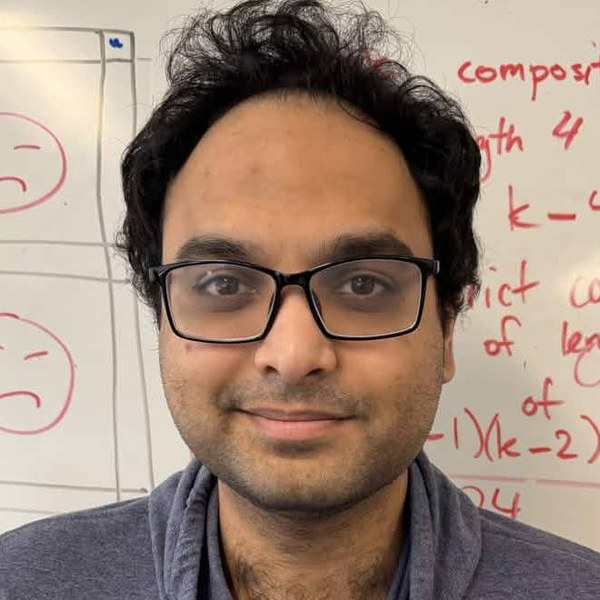
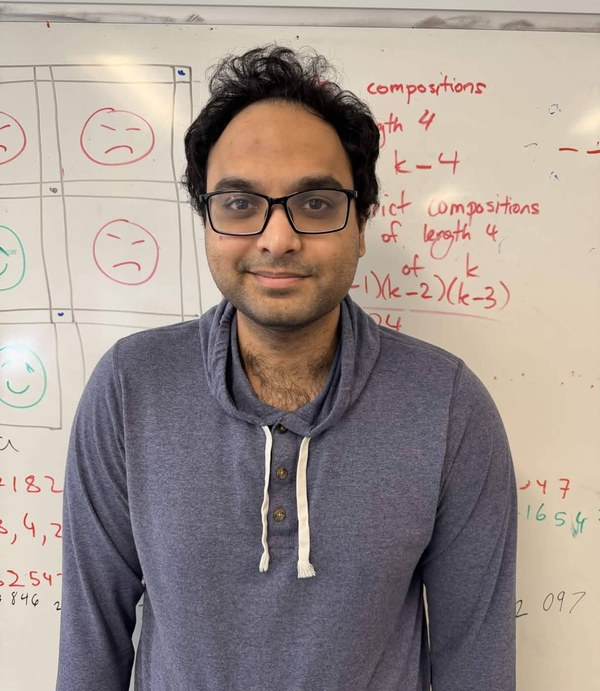
Use half-body photo on home page
Claude-Session: https://claude.ai/code/session_01JHZSne4W1EP6pngvL81kuq

diff --git a/style.css b/style.css
@@ -80,11 +80,11 @@ footer {
 
 .headshot {
   float: right;
-  width: 200px;
-  height: 200px;
+  width: 240px;
+  height: auto;
   margin: 20px 0 16px 24px;
 }
 
 @media (max-width: 560px) {
-  .headshot { float: none; display: block; width: 160px; height: 160px; margin: 16px 0; }
+  .headshot { float: none; display: block; width: 200px; height: auto; margin: 16px 0; }
 }
